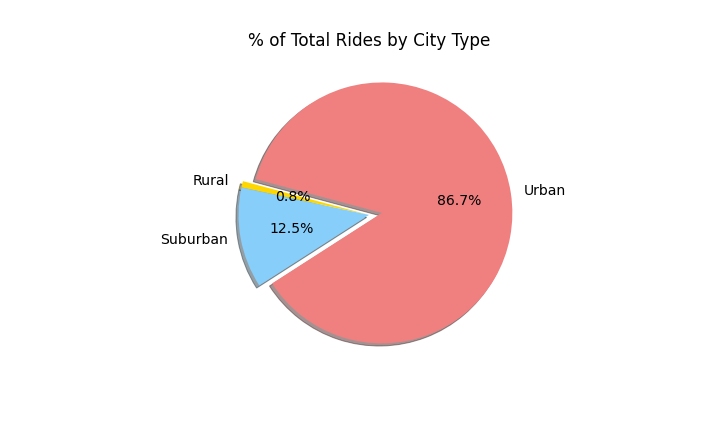
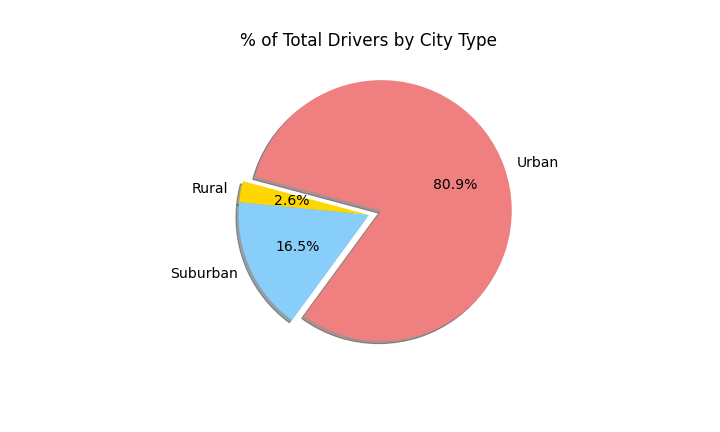
adding all final files including the README analysis file

diff --git a/README.md b/README.md
@@ -1,2 +1,104 @@
 # PyBer_Analysis
-Analyze all the rideshare data from January to early May of 2019 and create a compelling visualization for the CEO
+Analyis of the rideshare data from January to early May of 2019.
+
+
+## Overview
+### Purpose
+The following data of the the total weekly fares for each city type was gathered and analyzed to provide the decision-maker(s) at PyBer with the knowledge/tools to help them make decisions on prioritization of resources for PyBer services.
+
+
+### Executive Summary
+The data provided herein provides a glimpse into the PyBer business model.  The data is constrained to only about 4 months worth of rides across various cities and city types (Urban, Suburban and Rural) but it can provide some insights into what steps can be taken next based on the analysis provided herein.
+
+
+## Results
+To make this analysis, the city_data.csv and ride_data.csv were joined and broken down to produce the following summaries using Pandas and corresponding Matplotlib library methods and functions:
+- A table summary for average fares per ride and average fares per driver (in $USD)
+- A multiple-line graph showing the total fares for each week by city type
+
+### Ride-Sharing Data Summary
+The following table outlines the PyBer data summary:
+- The total number of rides for each city type
+- The total number of drivers for each city type
+- The sum of the fares for each city type
+- The average fare per ride for each city type
+- The average fare per driver for each city type
+![Summary Table per City Type](https://github.com/mrmarken/PyBer_Analysis/blob/main/analysis/Avg_fare_per_ride_or_driver_table.png)
+
+#### Data Analysis
+The data summarized in the table above can be further viewed in the following sections.
+##### Number of Rides per City Type
+The following chart summarizes the following:
+| City Type | Total Rides |
+| --- | :---: |
+| Rural | 125 |
+|Suburban | 625 |
+|Urban | 1,625 |
+![Rides per City Type](https://github.com/mrmarken/PyBer_Analysis/blob/main/analysis/Fig6.png)
+Urban areas demand more rides than both of the other two areas combined.  This makes Urban cities an area where there are opportunities for growing the PyBer business.
+
+##### Number of Drivers per City Type
+The following chart summarizes the following:
+| City Type | Total Rides |
+| --- | :---: |
+| Rural | 78 |
+|Suburban | 490 |
+|Urban | 2,405 |
+![Drivers per City Type](https://github.com/mrmarken/PyBer_Analysis/blob/main/analysis/Fig7.png)
+The data provides a clear message that the majority of drivers work in Urban areas.
+
+##### Total Fares per City Type
+The following chart summarizes the following:
+| City Type | Total Rides |
+| --- | :---: |
+| Rural | $4,327.93 |
+|Suburban | $19,356.33 |
+|Urban | $39,854.38 |
+![Total Fares per City Type](https://github.com/mrmarken/PyBer_Analysis/blob/main/analysis/Fig5.png)
+As expected, urban cities will provide more total fares due to the higher demand in these areas.
+
+##### Average Fare per Ride / per Driver per City Type
+The data reveals a pattern where the average fare per ride trends upward in this order: Urban --> Suburban --> Rural.  This trend reveals that on average:
+- **Rural** areas have the **highest fare at 34.62 per ride**.  
+- On the opposite side, **urban** areas have the **lowest fare of $24.53 per ride**
+- **Suburban** areas are revealed to **lay in between the other two city types at $30.97 per ride**
+
+
+
+### Weekly Total Fares by City Type
+The following table and Figure provide a glimpse of the weekly total fares (in $USD) per city type:
+
+| **Table 1**. Total Weekly Fare by City Type |
+| :---: |
+|![Table 1. Total Weekly Fare by City Type](https://github.com/mrmarken/PyBer_Analysis/blob/main/analysis/Avg_weekly_fares_table.png)|
+
+| Graphical View |
+| :---: |
+| ![Figure 1. Total Weekly Fare by City Type] (https://github.com/mrmarken/PyBer_Analysis/blob/main/analysis/PyBer_fare_summary.png)|
+| **Figure 1.** Total Weekly Fare by City Type|
+
+The two graphics above provide a small glimpse of the weekly total fares per city type.  In the four month period (January 1, 2019 - April 28, 2019) analyzed, some upward trends in total fares are seen during late-February through mid-April.
+However, it should be noted that additional data analytics should be performed across the various populations to better understand customer trends, driver satisfaction and overall business outlook.
+
+
+
+## Summary
+
+### Caveats
+While the table above takes into consideration the total number of drivers per city type and provides an average fare per driver based on the total amount of fares per city type during the period of January 1, 2019 through May 8, 2019, it does not account for: 
+- Those drivers that did not have any rides, or
+- Drivers that had multiple rides 
+
+If one assumes that each of the 1,625 rides in urban cities was performed by only one of the 2,405, then it would be expected that each driver had a similar average fare as the ride column. 
+Conversely, for the 78 drivers in rural areas that completed 125 rides, it would be expected that some drivers completed more than one ride and even perhaps some completed no rides.  
+
+
+### Recommendations
+In conclusion, the following recommendations are made to the decision-makers:
+1. To increase driver satisfaction and/or average fare per driver, you should consider increasing the per-mile charges in urban cities as these trips are likely are shorter than in suburban and rural areas.
+2. Consider spending more time and resources to perform deeper dives into more precise analytics:
+    - Is there any correlation between number of drivers vs. wait times in rural areas?
+    - What is the true fare average per drivers for those that complete rides in each city type?
+    - Understand customer needs by looking at total fares per week trends.  For example, we can see a slight in crease in the weeks starting in mid- to late-February and seemingly peaking toward the end of April.  It would be of value to understand market needs during these months and beyond.
+3. Entice more people to join PyBer in rural areas to provide better service.
+
